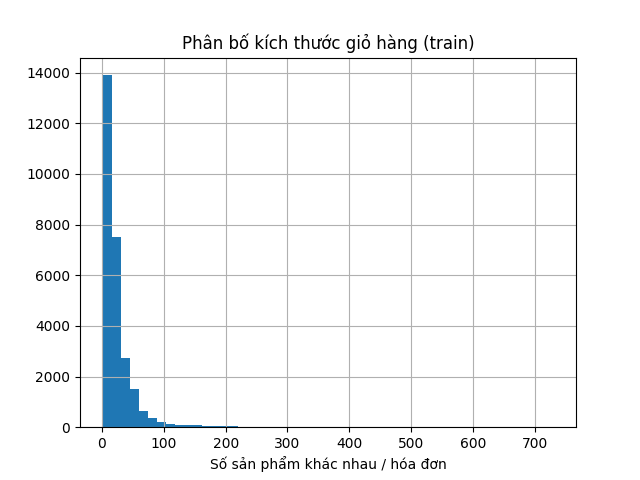
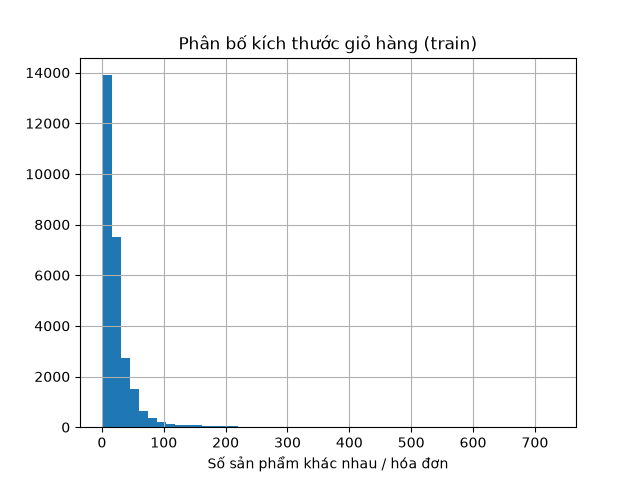
Thêm ma trận cosine và hàm gợi ý Top-N

diff --git a/src/features.py b/src/features.py
@@ -1,0 +1,64 @@
+"""src/features.py — xây ma trận item-invoice/item-customer và hàm gợi ý Top-N."""
+from pathlib import Path
+import pandas as pd
+import numpy as np
+from scipy.sparse import csr_matrix
+from sklearn.metrics.pairwise import cosine_similarity
+
+SPLIT_CSV = Path("data/processed/split.csv")
+
+
+def build_item_matrix(train_df: pd.DataFrame, group_col: str, min_freq: int):
+    """
+    Xây ma trận nhị phân sản phẩm x group_col.
+    group_col = "Invoice" (vector item-invoice) hoặc "Customer ID" (vector item-customer).
+    min_freq: chỉ giữ sản phẩm xuất hiện >= min_freq lần trong group_col, CHỈ TÍNH TRÊN train_df.
+    """
+    df = train_df.dropna(subset=[group_col]).copy()
+
+    item_counts = df.groupby("StockCode")[group_col].nunique()
+    vocab = item_counts[item_counts >= min_freq].index
+    df = df[df["StockCode"].isin(vocab)]
+
+    items = df["StockCode"].astype("category")
+    groups = df[group_col].astype("category")
+
+    mat = csr_matrix(
+        (np.ones(len(df)), (items.cat.codes, groups.cat.codes)),
+        shape=(len(items.cat.categories), len(groups.cat.categories)),
+    )
+    mat.data[:] = 1  # nhị phân hóa
+
+    item_vocab = items.cat.categories.tolist()
+    return mat, item_vocab
+
+
+def compute_cosine(mat: csr_matrix) -> np.ndarray:
+    return cosine_similarity(mat)
+
+
+def recommend_topn(input_codes: list[str], item_vocab: list[str],
+                    sim_matrix: np.ndarray, n: int) -> list[str]:
+    """Gợi ý Top-N sản phẩm cho các sản phẩm đã có trong giỏ (input_codes)."""
+    code_to_idx = {code: i for i, code in enumerate(item_vocab)}
+    input_idx = [code_to_idx[c] for c in input_codes if c in code_to_idx]
+    if not input_idx:
+        return []
+
+    scores = sim_matrix[input_idx].sum(axis=0)
+    scores[input_idx] = -1  # không tự gợi ý lại sản phẩm đã có trong giỏ
+
+    top_idx = np.argsort(-scores)[:n]
+    return [item_vocab[i] for i in top_idx]
+
+
+if __name__ == "__main__":
+    df = pd.read_csv(SPLIT_CSV, dtype={"Invoice": str, "StockCode": str})
+    train = df[df["split"] == "train"]
+
+    mat_inv, vocab_inv = build_item_matrix(train, "Invoice", min_freq=20)
+    sim_inv = compute_cosine(mat_inv)
+    print(f"Item-invoice: {len(vocab_inv)} sản phẩm trong từ vựng (min_freq=20)")
+
+    test_code = vocab_inv[0]
+    print(f"Gợi ý cho {test_code}:", recommend_topn([test_code], vocab_inv, sim_inv, n=5))
